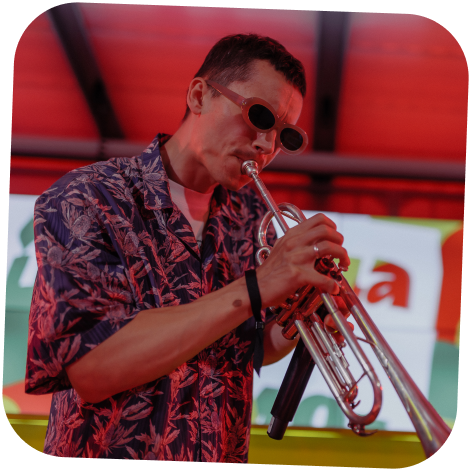
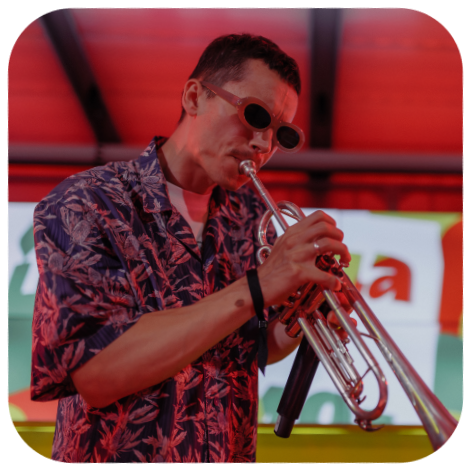
second commit

diff --git a/css/style.css b/css/style.css
@@ -107,38 +107,10 @@ p{
 .section-hero__wrapper{
     position: relative;
     z-index: 1;
-    background-image: url(../img/Ellipse.png);
+    background-image: url(../img/hero\ img.png);
     background-repeat: no-repeat;
-    background-position: 60.5% 12%;
-    background-size: 40%;
-}
-
-.section-hero__wrapper::before{
-    content: '';
-    position: absolute;
-    z-index: 1;
-    top: 10%;
-    left: 37%;
-    width: 54%; /* 744px; */
-    height: 618px;
-    background-image: url(../img/svg/hero\ image.svg);
-    background-repeat: no-repeat;
-    background-position: center center;
-    background-size: contain;
-}
-
-.section-hero__wrapper::after{
-    content: '';
-    position: absolute;
-    z-index: 1;
-    top: 44.5%;
-    left: 51%;
-    width: 16%; /* 207px */
-    height: 207px;
-    background-image: url(../img/svg/hero\ cricle\ text.svg);
-    background-repeat: no-repeat;
-    background-position: center center;
-    background-size: contain;
+    background-position: 150% 90%;
+    background-size: 85%;
 }
 
 .section-hero__content{
@@ -487,7 +459,7 @@ p{
 
 /* BRACKEPOINTS */
 
-@media (max-width: 376px){
+@media (max-width: 481px){
     .container{
         width: 90%;
     }
@@ -523,6 +495,10 @@ p{
         letter-spacing: 0px;
     }
 
+    .section-hero__description{
+        max-width: 90%;
+    }
+
     .section-hero__description-price{
         border-radius: 500px;
         width: 41px;
@@ -545,25 +521,9 @@ p{
     }
     
     .section-hero__wrapper{
-        background-image: none;
-    }
-    
-    .section-hero__wrapper::before{
-        content: '';
-        position: absolute;
-        z-index: 1;
-        top: 50%;
-        left: 0%;
-        width: 95%;
-    }
-
-    .section-hero__wrapper::after{
-        content: '';
-        position: absolute;
-        z-index: 1;
-        top: 129%;
-        left: 26%;
-        width: 25%;
+        height: 100%;
+        background-size: 140%;
+        background-position: 50% 110%;
     }
 
     .section-hero-btn{
@@ -618,20 +578,20 @@ p{
 
     .section-exclusive__list{
         max-width: 1500px !important;
-        width: 1500px !important;
+        width: 400% !important;
         display: flex;
-        justify-content: unset;
+        justify-content: space-around;
         transform: none;
         width: 100%;
         top: -5%;
     }
 
-    .section-exclusive__item:nth-child(1){
+/*     .section-exclusive__item:nth-child(1){
         margin-left: 5px;
-    }
+    } */
 
     .section-exclusive__item:nth-child(3n+1){
-        transform: rotate(-2deg);
+        transform: none;
     } 
 
     .section-exclusive__item:nth-child(4){
@@ -640,9 +600,9 @@ p{
 
     .section-exclusive__item{
         margin-bottom: 0px;
-        width: 343px;
-        transform: rotate(-2deg);
-        background-size: contain;
+        /* margin-right: 2px; */
+        width: 23%;
+        background-size: 103%;
     }
 
     .section-exclusive__btns{
@@ -653,7 +613,7 @@ p{
         background-image: url(../img/svg/lines.svg);
         background-size: 50%;
         top: -18%;
-        left: 40%;
+        left: 8.5%;
     }
     
     .section-exclusive__item:nth-child(2)::before{

diff --git a/index.html b/index.html
@@ -14,7 +14,7 @@
                 <div class="section-hero__content">
                     <img alt="Yandex Go logo" class="section-hero__logo" src="./img/svg/Yandex Go Ru black.svg">
                     <h1 class="heading section-hero__heading">Вступайте в&nbsp;клуб Самокатов</h1>
-                    <p class="description section-hero__description">Купите абонемент, чтобы стать частью&nbsp;клуба в новом сезоне-2024. 8&nbsp;месяцев за <span class="section-hero__description-price">499₽</span></p>
+                    <p class="description section-hero__description">Купите абонемент, чтобы стать частью&nbsp;клуба в новом сезоне-2024.<br> 8&nbsp;месяцев за <span class="section-hero__description-price">499₽</span></p>
                     <button class="btn section-hero-btn">Стать частью клуба</button>
                 </div>
             </div>
@@ -83,10 +83,10 @@
                     </p>
                 </li>
                 <li class="section-action__item">
-                    <img class="section-action__item-img item-img-1" alt="img" src="/img/svg/action item-1.svg">
+                    <img class="section-action__item-img item-img-1" alt="img" src="./img/svg/action item-1.svg">
                 </li>
                 <li class="section-action__item">
-                    <img class="section-action__item-img item-img-2" alt="img" src="/img/svg/action item-2.svg">
+                    <img class="section-action__item-img item-img-2" alt="img" src="./img/svg/action item-2.svg">
                 </li>
                 <li class="section-action__item">
                     <h1 class="heading section-action__item-heading">

diff --git a/js/main.js b/js/main.js
@@ -2,20 +2,23 @@ document.addEventListener('DOMContentLoaded', function(){
     let offset = 0;
     const sliderWrapper = document.querySelector('.section-exclusive__wrapper');
     const sliderTrack = document.querySelector('.section-exclusive__list');
-    let sliderWidth = sliderWrapper.clientWidth + 2;
+    let sliderWidth = sliderWrapper.clientWidth;
 
     const btnPrev = document.getElementById('btn-prev');
     const btnNext = document.getElementById('btn-next');
+
+    console.log(sliderWidth)
 
     btnPrev.disabled = true
 
     btnNext.addEventListener('click', function() {
         btnPrev.disabled = false
         offset += sliderWidth
+        console.log(offset)
         if (offset >= sliderWidth * 3) {
             btnNext.disabled = true
         }
-        sliderTrack.style.left = -offset -10 + 'px';
+        sliderTrack.style.left = -offset + 'px';
     })
 
     btnPrev.addEventListener('click', function() {
@@ -24,6 +27,6 @@ document.addEventListener('DOMContentLoaded', function(){
         if (offset <= 0) {
             btnPrev.disabled = true
         }
-        sliderTrack.style.left = -offset - 10 + 'px';
+        sliderTrack.style.left = -offset + 'px';
     })
 })
